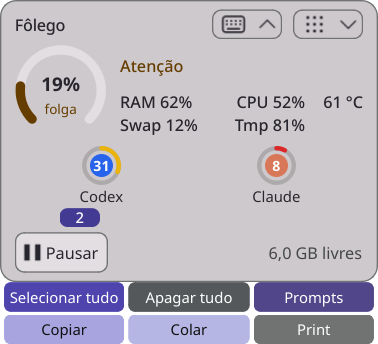
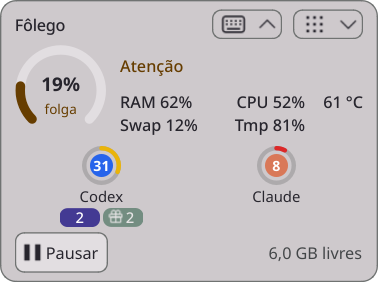
Record compact UI validation and handoff

diff --git a/docs/HANDOFF.md b/docs/HANDOFF.md
@@ -1,5 +1,56 @@
 # Passagem para o próximo agente — atualizada em 03/11/2026
 
+## Cabeçalho compacto e cotas disponíveis — 03/11/2026
+
+O PR #1 foi integrado antes deste lote: `main` local/remoto estava limpo em
+`3eabb6bb8d783a458fa1694bb911c71ab95dbd9f`. O novo incremento está na
+mesma raiz canônica, branch `codex/compact-header-quota-20261103`, commit de
+código `c3274fec9950d450a93abfd954637b515ea94426`. A GUI b3 residente no
+host não foi reiniciada nem substituída; a mudança foi exercitada numa janela
+própria com dados sintéticos, sem interromper supervisores ou agentes.
+
+O cabeçalho do widget de 280 px tem marca em Noto Sans, teclado e seta unidos,
+e ícone da Central com seta para ocultar, sair e consultar todas as contas.
+A faixa mostra somente cotas positivas confirmadas, da maior porcentagem
+disponível para a menor; empate tem ordem estável. A conta padrão é usada quando
+elegível, senão aparece uma conta verificada do provedor, com clique e painel
+coerentes. Zero e desconhecido ficam fora da faixa, mas continuam distintos no
+menu. Expiração retira o indicador imediatamente; uma nova cota entra com
+animação curta quando o estilo Qt permite. Reabrir o widget não repete a
+descoberta. O som existente de reposição só toca numa transição confirmada pelo
+monitor; primeira leitura, falha e data de reset vencida não o disparam.
+
+Validação final do código: `./dev check` com Python 3.14.7 gerenciado, perfis
+separados e HOME/XDG privados: **1241 passed, 2 skipped** headless e **1570
+passed, 2 skipped** Qt offscreen. Teste focado de ordenação, conta alternativa,
+retorno e animação: **7 passed** após a última revisão do teste. QA em
+KDE/Wayland real, janela e HOME/XDG/áudio próprios: oito casos aprovados,
+incluindo Central/Voltar, três combinações de tema/transparência, ocultação e
+retorno de cota, hover e clique nativos no indicador, e saída pelo menu.
+[Captura e recibo](handoff/validation/compact-header-quota-2026-11-03/README.md).
+O cliente de IA foi interceptado em memória; nenhum som real nem conta pessoal
+foi usado como fixture.
+
+A primeira tentativa visual falhou no clique do menu após o widget crescer sob
+o ponteiro; registro em `.scratch/dev-tests/run-header-quota-20261103`. A
+segunda passou após estabilizar o drawer antes desse clique. A execução final
+após a última revisão do código também passou, com captura/recibo publicados no
+link acima. Uma execução de
+`./dev check` foi interrompida antes de registrar o resultado Qt quando houve
+uma nova mensagem do usuário; seu workspace `run-2iu_gd3o` permanece preservado
+e não conta como gate. O headless dessa tentativa tinha recibo verde; a suíte
+Qt foi repetida e aprovada. Workspaces concluídos com recibo e runner ausente
+foram movidos integralmente a `.scratch/dev-tests-reviewed` para respeitar o
+teto de 20, sem apagar payloads nem alterar limites.
+
+Limites: a captura e o Qt offscreen não certificam leitor de tela, clique físico
+em todos os monitores/escalas, áudio real nem uso prolongado. Os aceites de
+entrada, retenção de temporários e Modo Desempenho abaixo seguem abertos.
+Próximo passo deste incremento: revisar o PR e, quando integrado, reiniciar o
+Fôlego pelo fluxo do próprio aplicativo para testar a nova faixa com contas
+reais, sem usar credenciais como fixtures nem presumir que uma data de reset
+confirma cota. Não gerar release por este ajuste visual isolado.
+
 ## Instalação no host e aceites ainda pendentes — 03/11/2026
 
 Antes da instalação, a GUI e as units próprias estavam ativas no ambiente
@@ -34,7 +85,7 @@ da bandeja/superfícies não substituem os aceites seguintes:
 | Entrada física e acessibilidade | Supervisor atual em `waiting`, backend KWin, baseline 5, dois bloqueios, zero erro e zero operação ativa na consulta; uma revisão durável `accessibility.activate` segue pendente. Toque FTS3528 não estava disponível; reconciliar o ID, sem repetição cega, e testar toque/leitor de tela com hardware e sessão própria. |
 | Desktop e interação | Central/Desempenho/Opções foram vistas anteriormente em janelas próprias Wayland; a GUI b3 registra bandeja e superfícies agora. Faltam arraste e cliques físicos sobre o fluxo atual, login/SDDM, logout, suspend/resume, dock, Steam e Orca em janela de QA que não interrompa trabalho. |
 | Modo Desempenho | Regras automáticas e unit ficaram como antes da instalação. Os 225 s de observação anterior não provam horas reais; fazer soak contínuo da fonte b3 com orçamento, duração e alvos descartáveis próprios, incluindo foco, áudio, downloads, arquivos de projeto, agentes, carência e disjuntor. |
-| Gate local | A última suíte completa local verde antecede o texto/versão b3. A repetição de `test_backup.py::test_roundtrip_property` excedeu o deadline de 200 ms sob carga; falha e workspace foram preservados. Os 20 workspaces de QA bloqueiam novo `./dev check` sem revisão; CI do commit/tag da prévia b3 passou. Não elevar limites nem apagar evidência para obter verde. |
+| Gate local | O gate histórico da b3 teve uma falha de deadline preservada; o novo incremento passou `./dev check` com 1241/1570 testes aprovados (2 skips por perfil) após revisão manual e preservação integral dos workspaces concluídos. O CI deste novo SHA ainda precisa ser observado após push. |
 
 Próximo: executar esses aceites no alvo apropriado, preservando o diário e as
 políticas atuais. A prévia publicada não é aceite físico ou produto estável.
@@ -45,7 +96,8 @@ Pedido explícito de release: `pyproject.toml` e `uv.lock` avançaram juntos par
 `0.2.0b3`; commit/tag `172bbc1f5837fbcd3c7e00ec614738e52dda7397`.
 [Release v0.2.0b3](https://github.com/Misael-art/Folego/releases/tag/v0.2.0b3)
 publicada em 03/11/2026 19:37:39 UTC como **prerelease**, com o PR #1 ainda
-draft e sem merge. A versão b2 e sua tag permanecem imutáveis. O CI do commit
+draft e sem merge **naquele momento**; o PR foi integrado posteriormente em
+`main` no SHA `3eabb6b`. A versão b2 e sua tag permanecem imutáveis. O CI do commit
 teve seis jobs de produto aprovados. Na referência da tag, nove checks success
 (incluindo os do PR e os três novos do tag), dois revisores skipped e nenhum
 check ativo ou falho na consulta final.

diff --git a/docs/handoff/validation/compact-header-quota-2026-11-03/README.md b/docs/handoff/validation/compact-header-quota-2026-11-03/README.md
@@ -14,8 +14,10 @@ clique nativos no indicador, ticket por Qt, parada do pulso ao ocultar e saída
 explícita pelo menu. A abertura do cliente foi interceptada em memória. A
 tentativa inicial falhou quando o widget cresceu sob o ponteiro antes do clique
 no menu; seu registro permanece em `.scratch/dev-tests/run-header-quota-20261103`.
-Na repetição, o drawer foi estabilizado antes desse clique e os oito casos do
-recibo passaram. Não houve uso de contas, clipboard, agentes ou áudio pessoais.
+Na repetição, o drawer foi estabilizado antes desse clique. Depois da revisão
+final da animação de reabertura, o mesmo QA passou novamente nos oito casos;
+a captura e o recibo publicados são dessa execução final. Não houve uso de
+contas, clipboard, agentes ou áudio pessoais.
 
 `./dev check` após a alteração: 1241 passed, 2 skipped no headless e 1570
 passed, 2 skipped no Qt offscreen. Os dois skips do perfil privado dependem de
